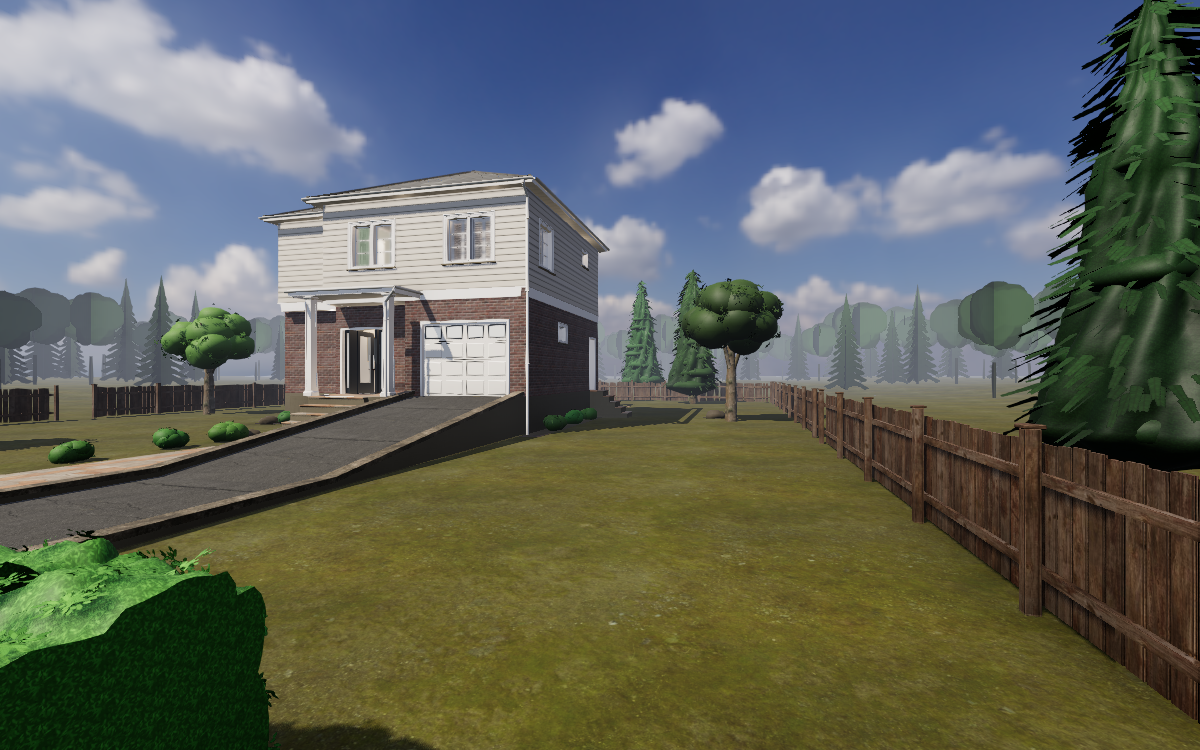
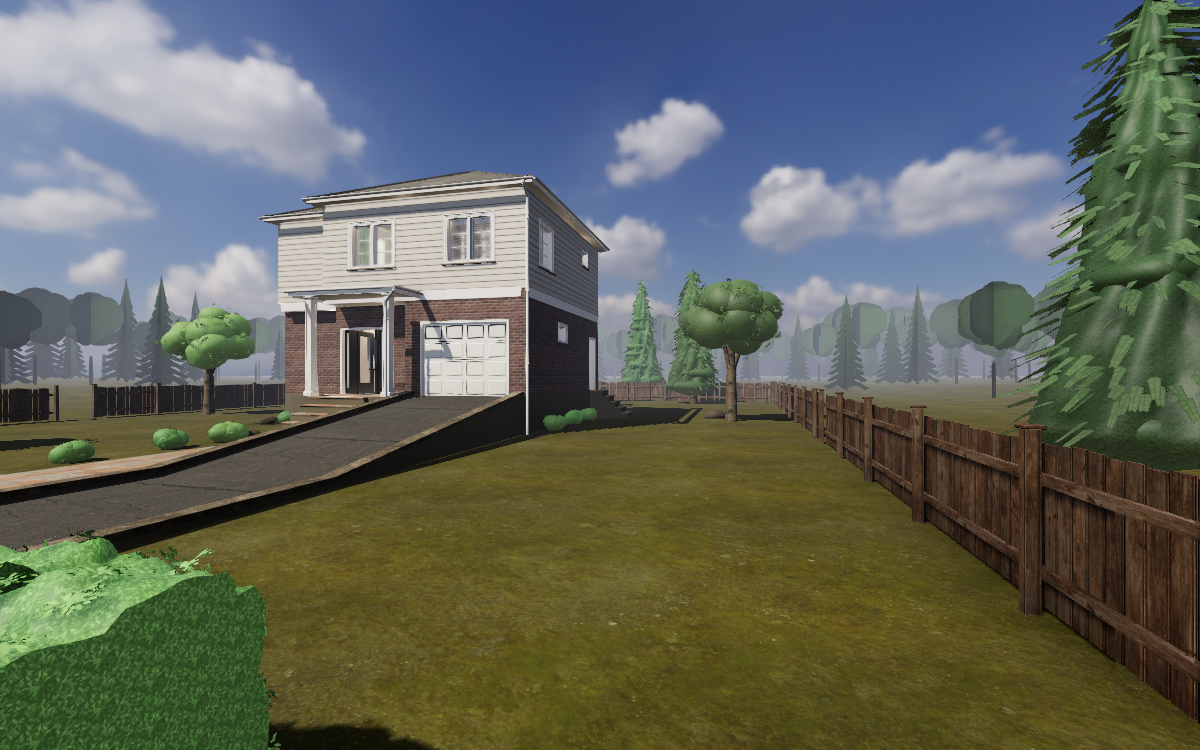
Realism pass: second integration (HDRI lighting, AO, PBR textures, trim, rebuilt furniture, roof details)
Claude-Session: https://claude.ai/code/session_0185F2zmEKr6A7He9XJKDry4

diff --git a/src/scene/exterior/materials.ts b/src/scene/exterior/materials.ts
@@ -110,7 +110,8 @@ export function useLeaf(): THREE.MeshStandardMaterial {
   const speckle = useMemo(() => leafSpeckleTexture(), []);
   const m = useMemo(
     () =>
-      new THREE.MeshStandardMaterial({ color: '#ffffff', vertexColors: true, map: speckle.map, normalMap: set.normalMap, roughnessMap: set.roughnessMap, normalScale: set.normalScale, roughness: 0.9, envMapIntensity: 1.8 }),
+      // emissiveMap × 0.12: the same translucency term as the leaf cards, weaker on the solid crown.
+      new THREE.MeshStandardMaterial({ color: '#ffffff', vertexColors: true, map: speckle.map, normalMap: set.normalMap, roughnessMap: set.roughnessMap, normalScale: set.normalScale, roughness: 0.9, envMapIntensity: 1.8, emissive: '#ffffff', emissiveMap: speckle.map, emissiveIntensity: 0.12 }),
     [set, speckle],
   );
   useEffect(
@@ -133,7 +134,9 @@ export function useLeafCards(): THREE.MeshStandardMaterial {
   const tex = useMemo(() => leafCardTexture(), []);
   const m = useMemo(
     () =>
-      new THREE.MeshStandardMaterial({ color: '#ffffff', vertexColors: true, map: tex, alphaTest: 0.5, side: THREE.DoubleSide, shadowSide: THREE.FrontSide, roughness: 0.9, envMapIntensity: 1.8 }),
+      // emissive = 22 % of the card's own albedo: a cheap translucency term so back-lit cards (the
+      // whole rear garden faces away from the sun) read as dark green leaves instead of black blades.
+      new THREE.MeshStandardMaterial({ color: '#ffffff', vertexColors: true, map: tex, alphaTest: 0.5, side: THREE.DoubleSide, shadowSide: THREE.FrontSide, roughness: 0.9, envMapIntensity: 1.8, emissive: '#ffffff', emissiveMap: tex, emissiveIntensity: 0.22 }),
     [tex],
   );
   useEffect(
